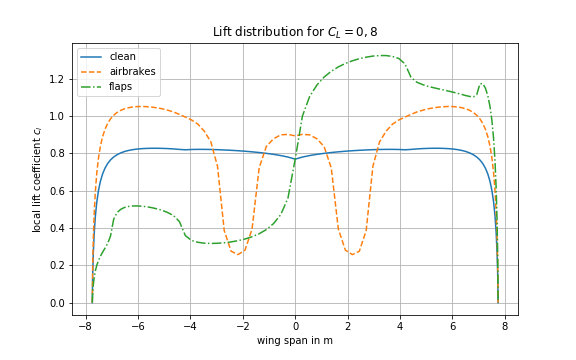
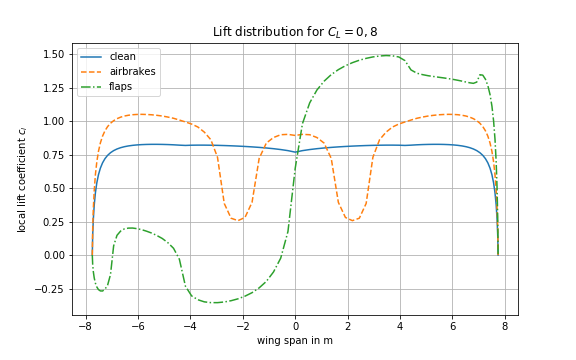
comparison of old and new multhop

diff --git a/wingstructure/aero/analysis.py b/wingstructure/aero/analysis.py
@@ -61,6 +61,7 @@ class LiftAnalysis(object):
         αs_base1 = np.interp(np.abs(self.calc_ys), wing.ys, wing.twists) # geometric twist
         αs_base2 = np.interp(np.abs(self.calc_ys), wing.ys, aerotwists) # aerodynamic twist
 
+        print('\n\nBase')
         self.base_liftdist, self.base_lift, self.base_drag = multhopp_(αs_base1-αs_base2)
 
         ## flap distributions
@@ -68,10 +69,12 @@ class LiftAnalysis(object):
         self.flap_lift = {}
         self.flap_drag = {}
         for name, flap in wing.flaps.items():
+            print('\n\nFlap '+name)
             αs_flap = self._calculate_flap_α(flap)
             self.flap_liftdist[name], self.flap_lift[name], self.flap_drag[name] = multhopp_(αs_flap)
 
         ## air brake distribution
+        print('\n\nairbrake')
         if wing.airbrake:
             from numpy import abs
             α_ab = np.zeros(M)
@@ -79,6 +82,7 @@ class LiftAnalysis(object):
             self.airbrake_distribution, self.airbrake_lift, self.airbrake_drag = multhopp_(α_ab)
 
         ## lift due to angle of attack
+        print('\n\naoa')
         α_aoa = np.ones(M)
         self.aoa_c_ls, aoa_C_L, self.aoa_C_Di = multhopp_(α_aoa)
         self.aoa_c_ls /= aoa_C_L

diff --git a/wingstructure/aero/multhop.py b/wingstructure/aero/multhop.py
@@ -64,7 +64,7 @@ def _multhop_solve(θs, αs, chords, dcls, b, return_αi=False):
 
     B = Bb + np.diag(Bd)
 
-    #print(B)
+    print(θs)
 
     # calculation of local circulation
     γs = np.dot(np.linalg.inv(B), αs)
@@ -207,12 +207,12 @@ def calc_multhoplift(wing, α, controls:dict={}, airbrake:bool=False, airfoil_db
         except:
             raise Exception('control surface "{}" not defined in wing!'.format(name))
             
-        #αs += _calc_flap_Δα(control_surf, ys, η_r)
-        #αs += _calc_flap_Δα(control_surf, ys, η_l)[::-1]
+        αs += _calc_flap_Δα(control_surf, ys, η_r)
+        αs += _calc_flap_Δα(control_surf, ys, η_l)[::-1]
 
     # - airbrake
     if airbrake:
-        #αs += np.where(wing.within_airbrake(ys), -12.0, 0.0)
+        αs += np.where(wing.within_airbrake(ys), -12.0, 0.0)
         pass
 
     # add aoa

diff --git a/wingstructure/aero/liftingline.py b/wingstructure/aero/liftingline.py
@@ -94,7 +94,7 @@ def _calcgridpoints(b:float, Λ:float, M:int = None):
     return θs, calc_ys
 
 def multhopp(αs: np.ndarray, chords: np.ndarray, ys: np.ndarray, dcls: np.ndarray or float=np.nan, M:int=None,
-             mode = 'c_l', interp = True ):
+             mode = 'c_l', interp = True, returnB=False):
     """Use multhopp's quadrature to solve prandtl's lifting line problem
     
     Parameters
@@ -119,6 +119,8 @@ def multhopp(αs: np.ndarray, chords: np.ndarray, ys: np.ndarray, dcls: np.ndarr
     namedtuple
         local lift coefficients, optional circulation distribution
     """
+
+    #print(αs, chords, ys, dcls, M, mode, interp)
 
     if np.isnan(dcls).all():
         dcls = np.array([2*π]*len(ys))

diff --git a/wingstructure/structure/internalreactions.py b/wingstructure/structure/internalreactions.py
@@ -67,9 +67,7 @@ def calc_moments(coords, discrete_loads):
 
     # split up loads
     coords_Qs = discrete_loads[:,:3]
-    Qs = discrete_loads[:,3:]
-    
-    
+    Qs = discrete_loads[:,3:]  
     
     # iterate over grid points
     j = 0
